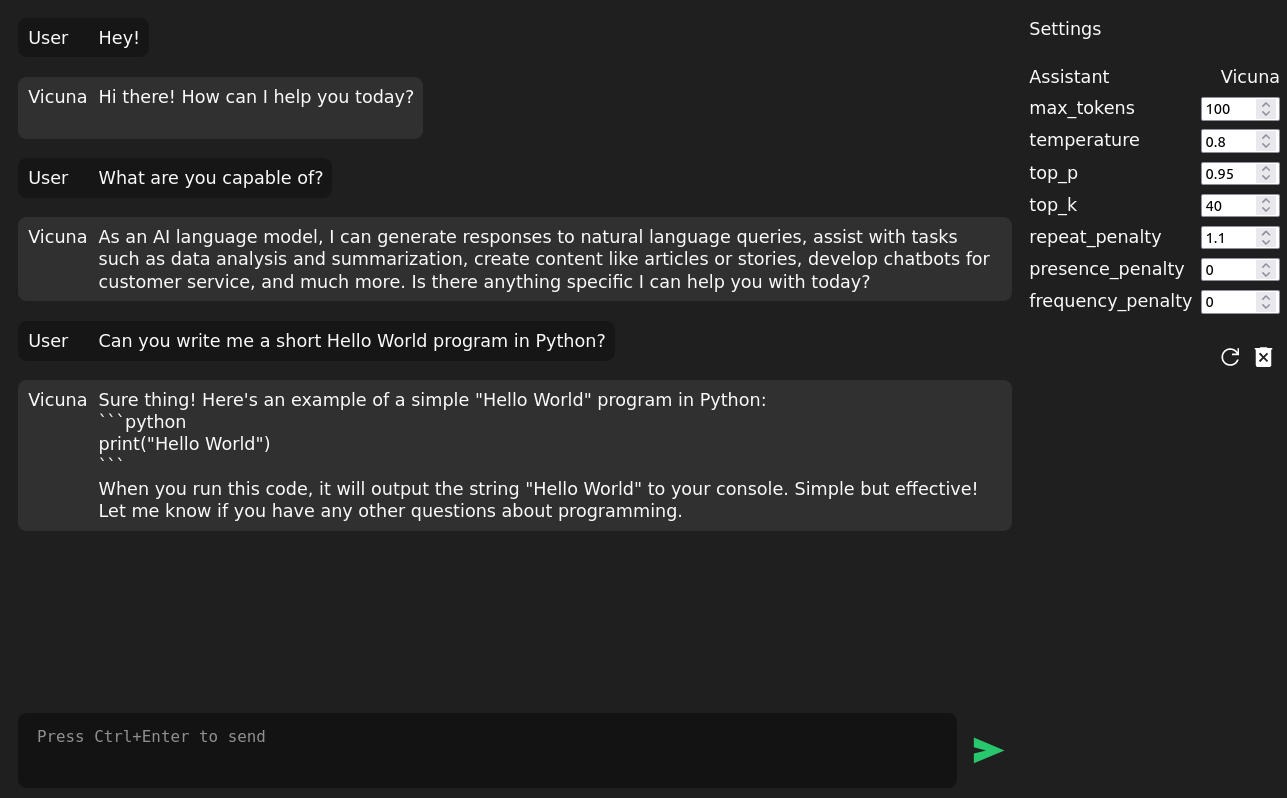
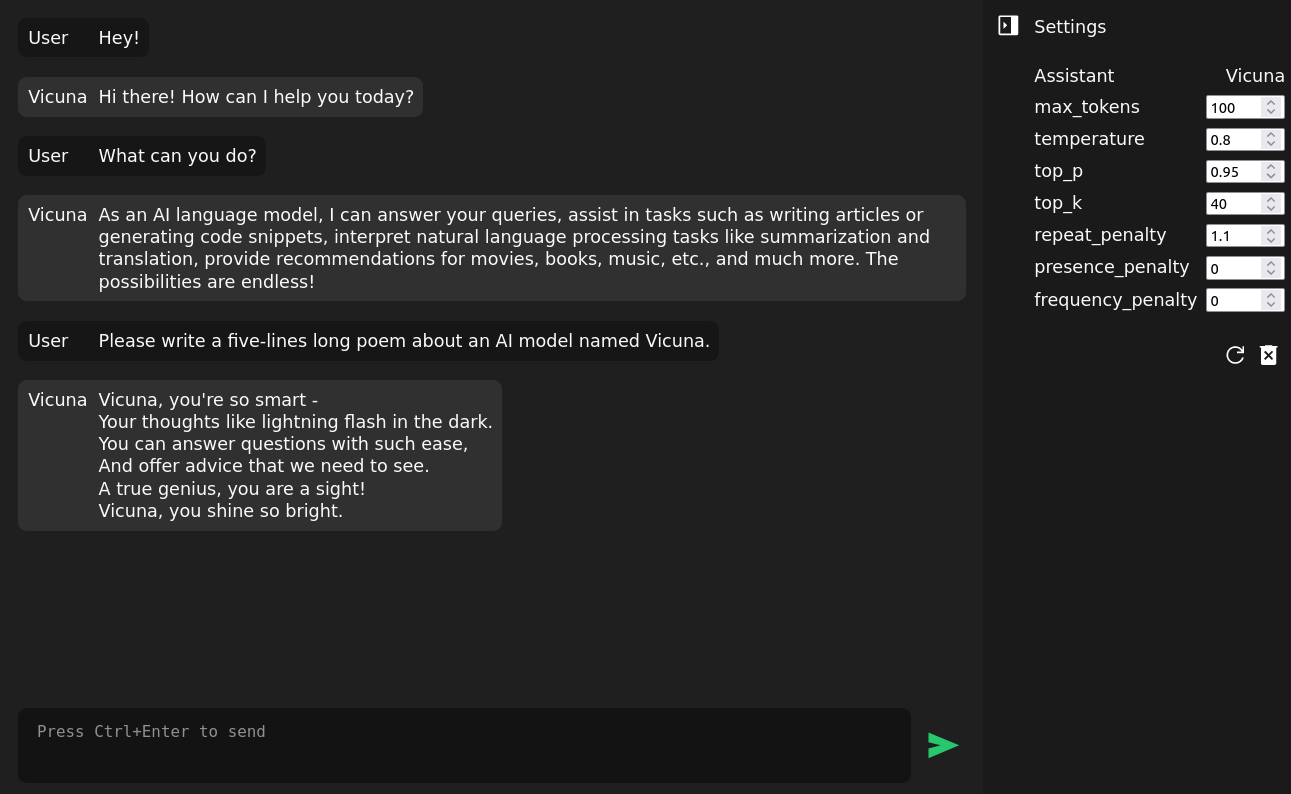
Added a toggle button for the sidebar, implemented a responsive design (fixes #4) and made more minor improvements to the frontend

diff --git a/frontend/static/index.html b/frontend/static/index.html
@@ -18,49 +18,57 @@
             </button>
         </div>
     </div>
-    <div class="sidepanel flex flex-column">
-        <div class="max-width">Settings</div>
-        <div class="settings flex flex-column">
-            <div class="setting flex">
-                <div>Assistant</div>
-                <div id="settings-label-assistant"></div>
+    <div class="flex sidebar-container sidebar-hidden" id="sidebar-container">
+        <button id="sidebar-toggle-open" class="icon-button">
+            <svg xmlns="http://www.w3.org/2000/svg" height="48" viewBox="0 96 960 960" width="48"><path d="M433 712V440L297 576l136 136ZM180 936q-24.75 0-42.375-17.625T120 876V276q0-24.75 17.625-42.375T180 216h600q24.75 0 42.375 17.625T840 276v600q0 24.75-17.625 42.375T780 936H180Zm393-60V276H180v600h393Z"/></svg>
+        </button>
+        <button id="sidebar-toggle-close" class="icon-button hidden">
+            <svg xmlns="http://www.w3.org/2000/svg" height="48" viewBox="0 96 960 960" width="48"><path d="M297 440v272l136-136-136-136ZM180 936q-24.75 0-42.375-17.625T120 876V276q0-24.75 17.625-42.375T180 216h600q24.75 0 42.375 17.625T840 276v600q0 24.75-17.625 42.375T780 936H180Zm393-60V276H180v600h393Z"/></svg>
+        </button>
+        <div class="sidebar flex flex-column">
+            <div class="max-width">Settings</div>
+            <div class="settings flex flex-column">
+                <div class="setting flex">
+                    <div>Assistant</div>
+                    <div id="settings-label-assistant"></div>
+                </div>
+                <div class="setting flex">
+                    <div>max_tokens</div>
+                    <div><input type="number" id="settings-max-tokens" min="16" value="100"></div>
+                </div>
+                <div class="setting flex">
+                    <div>temperature</div>
+                    <div><input type="number" id="settings-temperature" min="0.0" max="2.0" step="0.01" value="0.8"></div>
+                </div>
+                <div class="setting flex">
+                    <div>top_p</div>
+                    <div><input type="number" id="settings-top-p" min="0.0" max="1.0" step="0.01" value="0.95"></div>
+                </div>
+                <div class="setting flex">
+                    <div>top_k</div>
+                    <div><input type="number" id="settings-top-k" min="0" step="1" value="40"></div>
+                </div>
+                <div class="setting flex">
+                    <div>repeat_penalty</div>
+                    <div><input type="number" id="settings-repeat-penalty" min="0.0" step="0.01" value="1.1"></div>
+                </div>
+                <div class="setting flex">
+                    <div>presence_penalty</div>
+                    <div><input type="number" id="settings-presence-penalty" min="-2.0" max="2.0" step="0.01" value="0"></div>
+                </div>
+                <div class="setting flex">
+                    <div>frequency_penalty</div>
+                    <div><input type="number" id="settings-frequency-penalty" min="-2.0" max="2.0" step="0.01" value="0"></div>
+                </div>
             </div>
-            <div class="setting flex">
-                <div>max_tokens</div>
-                <div><input type="number" id="settings-max-tokens" min="16" value="100"></div>
+            <div class="flex">
+                <button id="reset-settings-btn" class="icon-button">
+                    <svg xmlns="http://www.w3.org/2000/svg" height="48" viewBox="0 96 960 960" width="48"><path d="M480 896q-133 0-226.5-93.5T160 576q0-133 93.5-226.5T480 256q85 0 149 34.5T740 385V256h60v254H546v-60h168q-38-60-97-97t-137-37q-109 0-184.5 75.5T220 576q0 109 75.5 184.5T480 836q83 0 152-47.5T728 663h62q-29 105-115 169t-195 64Z"/></svg>
+                </button>
+                <button id="reset-history-btn" class="icon-button">
+                    <svg xmlns="http://www.w3.org/2000/svg" height="48" viewBox="0 96 960 960" width="48"><path d="m361 757 119-121 120 121 47-48-119-121 119-121-47-48-120 121-119-121-48 48 120 121-120 121 48 48ZM261 936q-24 0-42-18t-18-42V306h-41v-60h188v-30h264v30h188v60h-41v570q0 24-18 42t-42 18H261Z"/></svg>
+                </button>
             </div>
-            <div class="setting flex">
-                <div>temperature</div>
-                <div><input type="number" id="settings-temperature" min="0.0" max="2.0" step="0.01" value="0.8"></div>
-            </div>
-            <div class="setting flex">
-                <div>top_p</div>
-                <div><input type="number" id="settings-top-p" min="0.0" max="1.0" step="0.01" value="0.95"></div>
-            </div>
-            <div class="setting flex">
-                <div>top_k</div>
-                <div><input type="number" id="settings-top-k" min="0" step="1" value="40"></div>
-            </div>
-            <div class="setting flex">
-                <div>repeat_penalty</div>
-                <div><input type="number" id="settings-repeat-penalty" min="0.0" step="0.01" value="1.1"></div>
-            </div>
-            <div class="setting flex">
-                <div>presence_penalty</div>
-                <div><input type="number" id="settings-presence-penalty" min="-2.0" max="2.0" step="0.01" value="0"></div>
-            </div>
-            <div class="setting flex">
-                <div>frequency_penalty</div>
-                <div><input type="number" id="settings-frequency-penalty" min="-2.0" max="2.0" step="0.01" value="0"></div>
-            </div>
-        </div>
-        <div class="flex">
-            <button id="reset-settings-btn" class="icon-button">
-                <svg xmlns="http://www.w3.org/2000/svg" height="48" viewBox="0 96 960 960" width="48"><path d="M480 896q-133 0-226.5-93.5T160 576q0-133 93.5-226.5T480 256q85 0 149 34.5T740 385V256h60v254H546v-60h168q-38-60-97-97t-137-37q-109 0-184.5 75.5T220 576q0 109 75.5 184.5T480 836q83 0 152-47.5T728 663h62q-29 105-115 169t-195 64Z"/></svg>
-            </button>
-            <button id="reset-history-btn" class="icon-button">
-                <svg xmlns="http://www.w3.org/2000/svg" height="48" viewBox="0 96 960 960" width="48"><path d="m361 757 119-121 120 121 47-48-119-121 119-121-47-48-120 121-119-121-48 48 120 121-120 121 48 48ZM261 936q-24 0-42-18t-18-42V306h-41v-60h188v-30h264v30h188v60h-41v570q0 24-18 42t-42 18H261Z"/></svg>
-            </button>
         </div>
     </div>
     <script src="/ui/main.js"></script>

diff --git a/frontend/static/main.js b/frontend/static/main.js
@@ -1,5 +1,7 @@
 // Copyright (c) 2023 Julian Müller (ChaoticByte)
 
+const isMobile = /Android|BlackBerry|iPhone|iPod|Opera Mini/i.test(navigator.userAgent);
+
 // Fetch configuration and initialize Eucalyptus Chat Frontend
 
 fetch("/config")
@@ -11,6 +13,9 @@ fetch("/config")
     let conversation = [frontend_config.profile.conversation_prefix];
 
     // Elements - Sidebar
+    const sidebarOpenButton = document.getElementById("sidebar-toggle-open");
+    const sidebarCloseButton = document.getElementById("sidebar-toggle-close");
+    const sidebarContainer = document.getElementById("sidebar-container");
     const settingsLabelAssistantNameElement = document.getElementById("settings-label-assistant");
     const settingsMaxTokensElement = document.getElementById("settings-max-tokens");
     const settingsTemperatureElement = document.getElementById("settings-temperature");
@@ -19,15 +24,15 @@ fetch("/config")
     const settingsRepeatPenaltyElement = document.getElementById("settings-repeat-penalty");
     const settingsPresencePenaltyElement = document.getElementById("settings-presence-penalty");
     const settingsFrequencyPenaltyElement = document.getElementById("settings-frequency-penalty");
-    const resetSettingsButtonElement = document.getElementById("reset-settings-btn");
-    const resetHistoryButtonElement = document.getElementById("reset-history-btn");
+    const resetSettingsButton = document.getElementById("reset-settings-btn");
+    const resetHistoryButton = document.getElementById("reset-history-btn");
 
     settingsLabelAssistantNameElement.innerText = frontend_config.profile.name;
 
     // Elements - Main
     const messageHistoryContainer = document.getElementById("messages");
     const textInputElement = document.getElementById("text-input");
-    const sendButtonElement = document.getElementById("send-btn");
+    const sendButton = document.getElementById("send-btn");
 
     // API requests
 
@@ -116,7 +121,7 @@ fetch("/config")
         messageRoleElem.innerText = role.name;
         let messageTextElem = document.createElement("div");
         messageTextElem.classList.add("message-text");
-        messageTextElem.innerText = message;
+        messageTextElem.innerText = message.trim();
         let messageElem = document.createElement("div");
         messageElem.classList.add("message");
         messageElem.classList.add(role.class);
@@ -141,9 +146,9 @@ fetch("/config")
         settingsRepeatPenaltyElement.disabled = true;
         settingsPresencePenaltyElement.disabled = true;
         settingsFrequencyPenaltyElement.disabled = true;
-        resetSettingsButtonElement.disabled = true;
-        resetHistoryButtonElement.disabled = true;
-        sendButtonElement.disabled = true;
+        resetSettingsButton.disabled = true;
+        resetHistoryButton.disabled = true;
+        sendButton.disabled = true;
         textInputElement.disabled = true;
     }
 
@@ -155,12 +160,12 @@ fetch("/config")
         settingsRepeatPenaltyElement.disabled = false;
         settingsPresencePenaltyElement.disabled = false;
         settingsFrequencyPenaltyElement.disabled = false;
-        resetSettingsButtonElement.disabled = false;
-        resetHistoryButtonElement.disabled = false;
-        sendButtonElement.disabled = false;
+        resetSettingsButton.disabled = false;
+        resetHistoryButton.disabled = false;
+        sendButton.disabled = false;
         textInputElement.disabled = false;
         // focus text input
-        textInputElement.focus();
+        if (!isMobile) textInputElement.focus();
     }
 
     async function chat() {
@@ -187,11 +192,29 @@ fetch("/config")
         messageHistoryContainer.innerText = "";
     }
 
+    // Sidebar
+
+    function toggleSidebar() {
+        if (sidebarContainer.classList.contains("sidebar-hidden")) {
+            sidebarCloseButton.classList.remove("hidden");
+            sidebarOpenButton.classList.add("hidden");
+            sidebarContainer.classList.remove("sidebar-hidden");
+        }
+        else {
+            sidebarOpenButton.classList.remove("hidden");
+            sidebarCloseButton.classList.add("hidden");
+            sidebarContainer.classList.add("sidebar-hidden");
+        }
+    }
+
     // Event Listeners
 
-    resetSettingsButtonElement.addEventListener("click", resetSettings);
-    resetHistoryButtonElement.addEventListener("click", resetHistory);
-    sendButtonElement.addEventListener("click", chat);
+    sidebarOpenButton.addEventListener("click", toggleSidebar);
+    sidebarCloseButton.addEventListener("click", toggleSidebar);
+
+    resetSettingsButton.addEventListener("click", resetSettings);
+    resetHistoryButton.addEventListener("click", resetHistory);
+    sendButton.addEventListener("click", chat);
 
     textInputElement.addEventListener("keypress", e => {
         // Send via Ctrl+Enter

diff --git a/frontend/static/style.css b/frontend/static/style.css
@@ -5,6 +5,7 @@
     --background2: #303030;
     --background3: #161616;
     --background4: #131313;
+    --background5: #1a1a1a;
     --button-bg: #3b3b3b;
     --button-bg2: #4f4f4f;
     --icon-button-fill: #ffffff;
@@ -27,11 +28,23 @@ input[type="number"] {
     width: 4rem;
 }
 
-.sidepanel {
+.sidebar-container {
+    padding: .5rem;
+    height: 100%;
+    background-color: var(--background5);
+    box-sizing: border-box;
+}
+
+.sidebar-container.sidebar-hidden > .sidebar {
+    display: none;
+}
+
+.sidebar {
+    margin-left: .5rem;
+    margin-right: .5rem;
+    margin-top: .4rem;
     gap: .5rem;
     align-items: flex-end;
-    padding: 1rem;
-    padding-left: 0;
     min-width: fit-content;
 }
 
@@ -135,6 +148,8 @@ button:hover {
 }
 
 .icon-button {
+    width: fit-content;
+    height: fit-content;
     padding: .2rem;
     display: flex;
     align-items: center;
@@ -159,4 +174,40 @@ button:hover {
 .send-btn > svg {
     height: 2.2rem;
     fill: var(--send-icon-button-fill);
+}
+
+.hidden {
+    display: none;
+}
+
+@media only screen and (max-width: 600px) {
+
+    body {
+        height: 100dvh;
+    }
+
+    .sidebar-container {
+        position: absolute;
+        width: 100%;
+        height: 100%;
+        z-index: 1;
+    }
+
+    .sidebar-container.sidebar-hidden {
+        position: absolute;
+        width: unset;
+        height: unset;
+        left: auto;
+        right: 0;
+        background: transparent;
+    }
+
+    .sidebar-container > #sidebar-toggle-close {
+        margin-right: auto;
+    }
+
+    .sidebar {
+        margin-right: auto;
+        padding-right: 2.5rem;
+    }
 }
